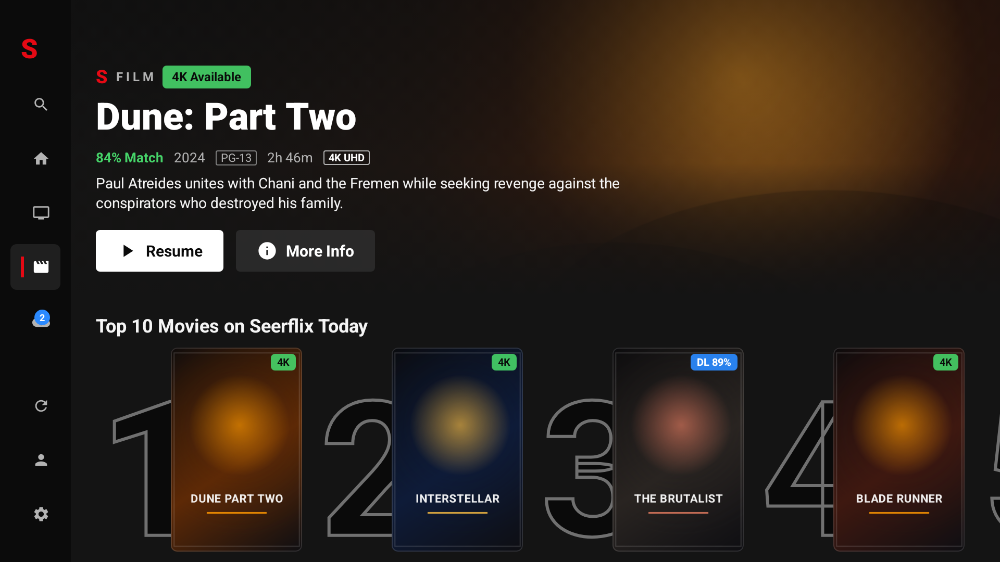
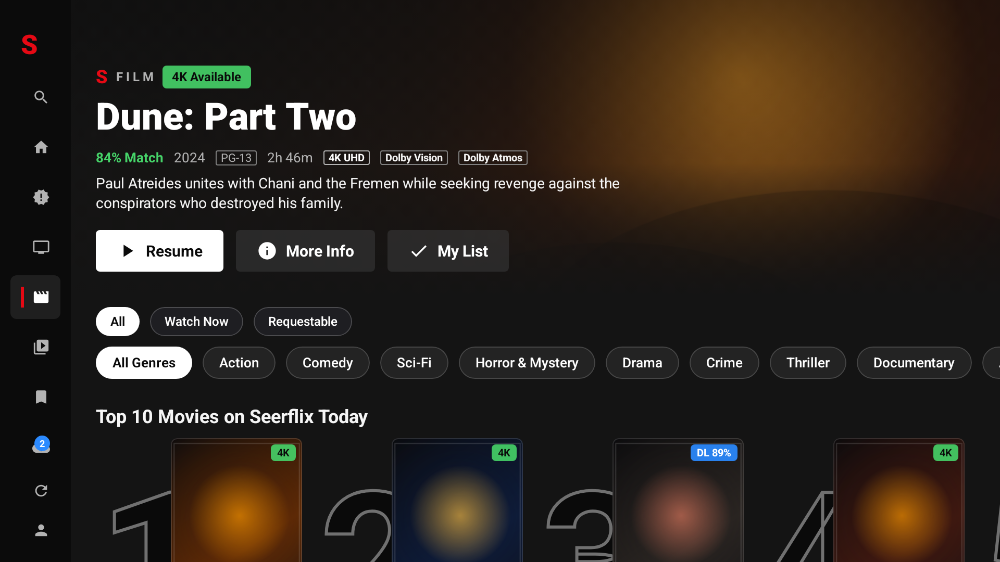
Update GitHub README and UI screenshots including Collections, Search, and Player Overlays

diff --git a/README.md b/README.md
@@ -7,11 +7,20 @@ A native **Google TV / Android TV** app built with **Kotlin**, **Jetpack Compose
 ### Home Hub & Continue Watching
 ![Home Screen](screenshots/home.png)
 
-### Top 10 Movies Row & Live Availability Badges
+### Top 10 Movies Row, Genre Filters & Live Availability Badges
 ![Top 10 Row](screenshots/home-top10.png)
+
+### Collections Hub & Saga Completion
+![Collections Hub](screenshots/collections.png)
 
 ### Title Details, TV Seasons & Live 4K Download ETA
 ![Details Screen](screenshots/details.png)
+
+### Search, People & Genre Discovery
+![Search Screen](screenshots/search.png)
+
+### Media3 Player Overlays (Episodes Drawer, Stream Info & Next Episode)
+![Player Overlays](screenshots/player-overlays.png)
 
 ### Requests & Downloads Hub (HD & 4K Queue + Live Progress)
 ![Requests Screen](screenshots/requests.png)
@@ -25,14 +34,16 @@ A native **Google TV / Android TV** app built with **Kotlin**, **Jetpack Compose
 > *Note: UI screenshots above are rendered from the real Jetpack Compose TV layouts via CashApp Paparazzi (`./gradlew recordPaparazziDebug`) using synthetic poster/backdrop preview artwork.*
 
 ## Key Features
-- **Netflix TV 10-Foot UI**: Deep `#141414` dark theme, `#E50914` accents, collapsible left icon rail, dynamic preview-on-focus billboard hero, Continue Watching progress bars, and oversized **Top 10** numbered rows.
-- **"Who's Watching?" Profile Picker + Quick Connect**: Sign in with a 6-digit **Quick Connect** code synced across both Jellyfin and Seerr v3+ (with password login fallback).
+- **Netflix TV 10-Foot UI**: Deep `#141414` dark theme, `#E50914` accents, collapsible left icon rail, dynamic preview-on-focus billboard hero, Continue Watching progress bars, and oversized **Top 10** numbered rows (movies, airing shows, and genre Top 10s).
+- **Collections & Saga Completion**: Dedicated **Collections** hub and Movie Details **"Part of Saga"** rows merging Jellyfin BoxSets with Seerr collection metadata and 1-click **Request Missing**.
+- **Coming Soon & Release Reminders**: Countdown badges (`Today`, `S3 E4 • Tonight`, `Tomorrow`, `In N days`), Jellyfin `Shows/Upcoming` (**New Episodes Coming This Week**), and **"Ready to Watch • Your Reminders"** promotion when reminders become playable.
+- **"Who's Watching?" Profile Picker + Quick Connect**: Sign in with a 6-digit **Quick Connect** code synced across both Jellyfin and Seerr v3+ (with optional per-profile PIN lock and password login fallback).
 - **On-Device Trailer Previews**: Plays local Jellyfin trailers and Seerr YouTube `relatedVideos` directly on the Google TV via `NewPipeExtractor` + Media3 (zero load on your server, with Ken Burns backdrop fallback).
 - **Seamless HD & 4K Requests + Live ETA**:
-  - Request **HD (1080p)**, **4K (2160p)**, or **Both**, plus per-season selection for TV shows.
+  - Request **HD (1080p)**, **4K (2160p)**, or **Both**, plus per-season selection for TV shows and quick-request long-press menus.
   - Tracks `status` / `status4k` and live `%` + **ETA** directly from Seerr v3+'s `downloadStatus` / `downloadStatus4k` fields (*ensure **Enable Scan** is checked on Radarr/Sonarr inside Seerr settings*).
   - Auto-polls every 15s on Details and Requests Hub so `Requested → Downloading 64% • ~6m left → Play` updates automatically.
-- **Media3 Player**: Direct Play first (HEVC, H.264, AV1, HDR10/Dolby Vision) with automatic Jellyfin HLS transcode fallback, **Skip Intro**, **Next Episode** overlay, Audio/Subtitle track switcher, and live Jellyfin resume reporting.
+- **Media3 Player**: Direct Play first (HEVC, H.264, AV1, HDR10/Dolby Vision) with automatic Jellyfin HLS transcode fallback, **24fps frame-rate matching**, **Auto-Skip Intro/Recap** (with Undo pill), **Subtitle Sync Offset (±ms)**, **On-Demand Jellyfin Remote Subtitle Search/Download**, **Next Episode** overlay, In-Player Episodes drawer, and live Jellyfin resume reporting.
 
 ## Build & Sideload to Google TV
 1. Build the debug APK:
